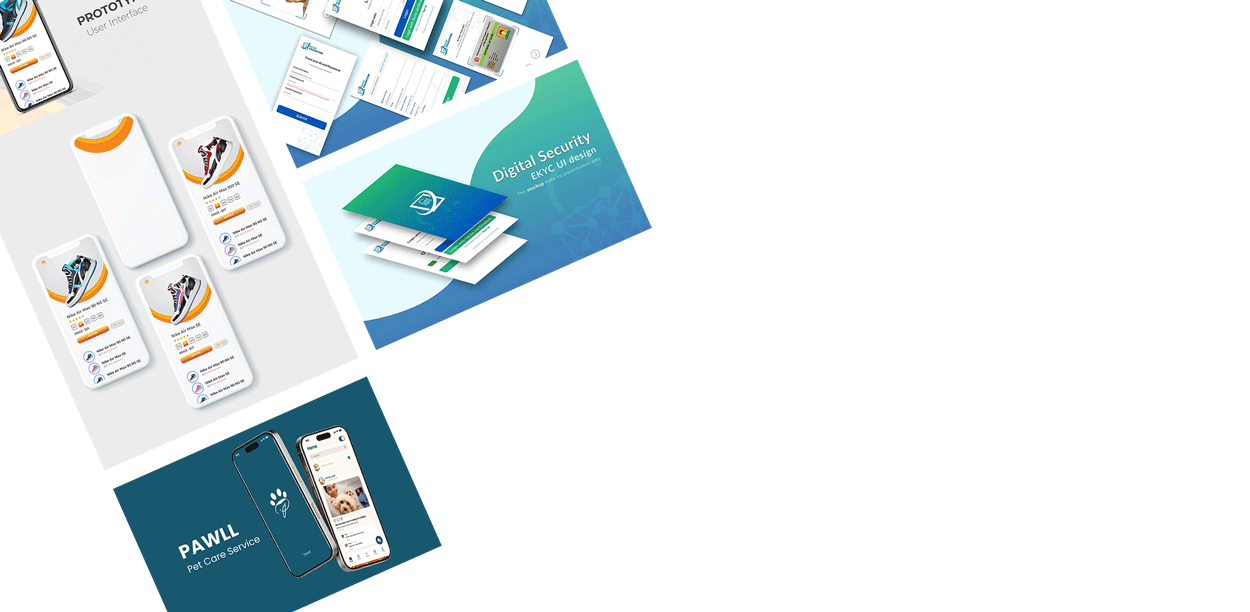
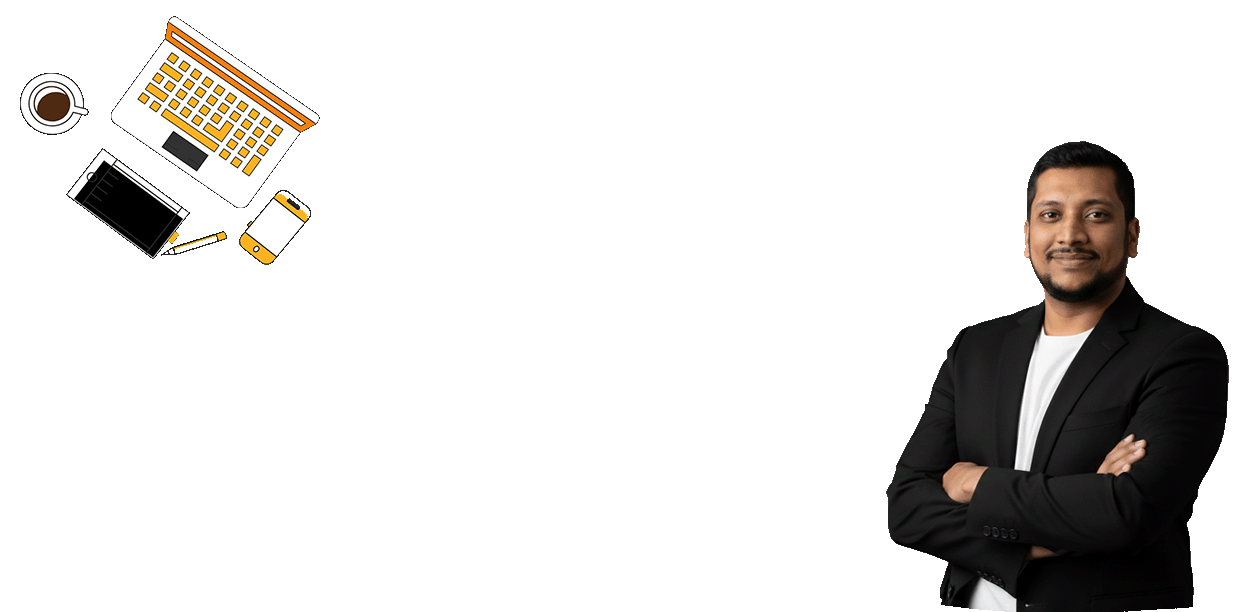
theme Udate

diff --git a/style.css b/style.css
@@ -9,7 +9,7 @@
 body {
   max-width: 1600px;
   margin: auto;
-  background-color: rgb(29, 29, 29);
+  background-color: rgb(230, 229, 228);
   font-family: "Rubik", sans-serif;
   color: #333;
   line-height: 1.6;
@@ -76,11 +76,12 @@ header {
   justify-content: space-between;
   align-items: center;
   padding: 20px 80px;
-  background-color: #fcc922be;
+  background-color: #ececd3be;
   position: sticky;
   top: 0;
   z-index: 1000;
   border-radius: 25px;
+  border-bottom: solid #fc8c0c;
   margin: 20px;
   backdrop-filter: blur(10px);
 }
@@ -128,6 +129,7 @@ nav ul li a:hover {
   transform: translateY(10px);
   transition: opacity 0.3s ease, transform 0.3s ease, visibility 0.3s ease;
   border-radius: 25px;
+  border-bottom: solid #fc8c0c;
 }
 
 .has-dropdown:hover .dropdown-menu {
@@ -177,28 +179,14 @@ body.mobile-nav-active nav {
   overflow: hidden;
 
   /* Background animation */
-  /* background-size: cover; 
-    background-position: center;
-    animation: slider 15s infinite ease-in-out;  */
+    
+    background-image: url("./Assets/works/BG2.png");background-size: cover; 
+    
+    
+    
 }
 
-@keyframes slider {
-  0% {
-    background-image: url("./Assets/works/BG1.png");
-  }
-  25% {
-    background-image: url("./Assets/works/BG2.png");
-  }
-  50% {
-    background-image: url("./Assets/works/BG3.png");
-  }
-  75% {
-    background-image: url("./Assets/works/BG4.png");
-  }
-  100% {
-    background-image: url("./Assets/works/BG1.png");
-  }
-}
+
 
 .hero-content {
   position: relative;
@@ -224,8 +212,8 @@ body.mobile-nav-active nav {
 }
 
 .hero-text-content h1 {
-  font-size: 1em; /* Mobile font size */
-  margin-bottom: 2px; /* Reduced margin */
+  font-size: 1rem; /* Mobile font size */
+  margin-bottom: 1px; /* Reduced margin */
 
   line-height: 1.2;
 }
@@ -235,17 +223,23 @@ body.mobile-nav-active nav {
   min-height: 1.5em;
   font-weight: 400;
   color: #f4730a;
+  
 }
 
-@media (min-width: 400px) {
+@media (min-width: 394px) {
   .hero-section {
-    height: 80vh; /* Adjust height for tablets */
+    height: 58vh; /* Adjust height for tablets */
+    background-size:cover;
+    background-position:right;
   }
+    
   .hero-content {
     padding: 10px 20px;
     max-width: 250px; /* Constrain width for better readability on tablets */
     width: auto; /* Reset width to auto for flex content */
+    
   }
+  
   .profile-photo {
     width: 400px;
     height: auto;
@@ -318,7 +312,7 @@ body.mobile-nav-active nav {
 
 /* My Work Section */
 .my-work-section {
-  background-color: rgb(29, 29, 29);
+  background-color: rgb(212, 212, 211);
   padding: 80px 50px;
   text-align: center;
 }
@@ -331,7 +325,7 @@ body.mobile-nav-active nav {
 }
 
 .category-card {
-  background-color: #303030d5;
+  background-color: #ececd3dc;
   padding: 30px;
   border-radius: 12px;
 
@@ -347,7 +341,7 @@ body.mobile-nav-active nav {
 }
 
 .category-card h3 {
-  color: #f4bf0a;
+  color:  rgb(43, 42, 42);
   font-size: 1.5em;
 }
 
@@ -388,7 +382,7 @@ body.mobile-nav-active nav {
 
 /* Skills Section */
 .skills-section {
-  background-color: rgb(29, 29, 29);
+  background-color: rgb(230, 229, 228);
   padding: 80px 50px;
   text-align: center;
 }
@@ -401,14 +395,15 @@ body.mobile-nav-active nav {
 }
 
 .skill-card {
-  background-color: #f8ee8f5b;
+  background-color: #ececd3dc;
   padding: 25px;
   border-radius: 8px;
   box-shadow: 0 2px 10px rgba(0, 0, 0, 0.05);
   transition: transform 0.3s ease, box-shadow 0.3s ease;
   opacity: 0; /* For scroll reveal */
   transform: translateY(20px);
-  color: rgb(255, 241, 204);
+  color:  rgb(43, 42, 42);
+  text-align:left;
 }
 
 .skill-card.revealed {
@@ -425,6 +420,7 @@ body.mobile-nav-active nav {
 .software-section {
   padding: 80px 50px;
   text-align: center;
+  background-color: rgb(212, 212, 211);
 }
 
 .software-icons {

diff --git a/index.html b/index.html
@@ -22,7 +22,7 @@
 
     <header>
         <div class="logo">
-            <a href="#"><img src="./Assets/Full log.png" alt="Mashiur Rahman Logo"></a>
+            <a href="index.html"><img src="./Assets/Full log.png" alt="Mashiur Rahman Logo"></a>
         </div>
         <nav>
             <ul>
@@ -57,23 +57,18 @@
         <section id="home" class="hero-section">
            
             <div class="hero-content">
+              
                 <div class="hero-profile-container">
-                    <img src="./Assets/pro-pic 2.png" alt="Mashiur Rahman Profile Photo" class="profile-photo">
-                    <div style="color: rgb(255, 241, 204);" class="hero-text-content">
+                      <!-- <img src="./Assets/pro-pic 2.png" alt="Mashiur Rahman Profile Photo" class="profile-photo"> -->
+                    <div style="color: rgb(43, 42, 42);" class="hero-text-content">
                         <h1>Mashiur Rahman</h1>
                         <p class="type-effect"></p> </div>
                 </div>
-                <!-- <div class="hero-background-slider">
-                <img src="./Assets/works/Yellow BG-01-01.jpg" alt="Background Image 1" class="active">
-                <img src="/Assets/works/single1.jpg" alt="Background Image 2">
-                <img src="/Assets/works/single2.jpg" alt="Background Image 3">
-            </div> -->
-            
             </div>
         </section>
 
         <section class="my-work-section">
-            <h2 style="color: rgb(255, 241, 204); font-size: 8vh;">My Work</h2>
+            <h2 style="color:  rgb(43, 42, 42); font-size: 8vh;">My Work</h2>
             <div class="work-categories-grid">
                 <div class="category-card" data-category="ui-ux">
                     <img src="./Assets/works/work 7.jpg" alt=" catagory UI/UX">
@@ -103,7 +98,7 @@
         </section>
 
         <section class="skills-section">
-            <h2 style="color: rgb(255, 241, 204); font-size: 8vh;">My Skills</h2>
+            <h2 style="color:  rgb(43, 42, 42); font-size: 8vh;">My Skills</h2>
             <div class="skills-grid">
                 <div class="skill-card">
                     <h3>UI/UX</h3>
@@ -135,19 +130,19 @@
         </section>
 
         <section class="software-section">
-            <h2 style="color: rgb(255, 241, 204); font-size: 8vh;">Software I Use</h2>
+            <h2 style="color:  rgb(43, 42, 42); font-size: 8vh;">Software I Use</h2>
             <div class="software-icons">
                 <img src="./Assets/figma.png" alt="Figma">
                 <img src="./Assets/Adobe.png" alt="Adobe XD">
                 <img src="./Assets/blender.png" alt="Photoshop">
                 <img src="./Assets/sketchup.png" alt="Illustrator">
-                <img src="./Assets/discord.png" alt="After Effects">
+                <!-- <img src="./Assets/discord.png" alt="After Effects"> -->
                 
                 </div>
         </section>
 
         <section class="proudly-work-section">
-            <h2 style="color: rgb(255, 241, 204); font-size: 8vh;">Proudly Work With</h2>
+            <h2 style="color:  rgb(43, 42, 42); font-size: 8vh;">Proudly Work With</h2>
             <div class="company-logos-slider">
                 <div class="logos-track">
                     <img src="./Assets/brands/Brand 1.png" alt="Company A">
@@ -172,6 +167,7 @@
         <div class="social-media">
             <h4>Follow Me</h4>
               <a href="https://www.linkedin.com/in/mashiur-rahaman/" target="_blank"><i class="fab fa-linkedin-in"></i> </a>
+        </div>
     </footer>
 
     <script src="main.js"></script>

diff --git a/Motion.html b/Motion.html
@@ -85,7 +85,7 @@
                     <iframe width="560" height="315" src="https://www.youtube.com/embed/s-1_yMQfKGE?si=B6bZTclMPlYEOsOe" title="YouTube video player" frameborder="0" allow="accelerometer; autoplay; clipboard-write; encrypted-media; gyroscope; picture-in-picture; web-share" referrerpolicy="strict-origin-when-cross-origin" allowfullscreen></iframe>
                 </div>
                 <div class="image-container">
-                    <iframe width="560" height="315" src="https://www.youtube.com/embed/HQquu6ipo1E?si=S2VG67xRngxzQ6Yd" title="YouTube video player" frameborder="0" allow="accelerometer; autoplay; clipboard-write; encrypted-media; gyroscope; picture-in-picture; web-share" referrerpolicy="strict-origin-when-cross-origin" allowfullscreen></iframe>
+                    <iframe width="560" height="315" src="https://www.youtube.com/embed/EiXhLa6hLAo?si=pqVuFPV6OiUmhXC_" title="YouTube video player" frameborder="0" allow="accelerometer; autoplay; clipboard-write; encrypted-media; gyroscope; picture-in-picture; web-share" referrerpolicy="strict-origin-when-cross-origin" allowfullscreen></iframe>
                 </div>
                
             </div>

diff --git a/Projects.css b/Projects.css
@@ -7,9 +7,9 @@
 body {
     max-width: 1600px;
     margin: auto;
-    background-color: rgb(29, 29, 29);
+    background-color:rgb(230, 229, 228);
     font-family: "Rubik", sans-serif;
-    color:  rgb(255, 241, 204);
+    color: rgb(43, 42, 42);
     line-height: 1.6;
     overflow-x: hidden; 
     
@@ -17,11 +17,11 @@ body {
 
 .project-main {
     padding: 60px 80px;
-     background-color: rgb(19, 19, 19);
+     background-color: rgb(212, 212, 211);
 }
 
 .project-case-study {
-    background-color:rgba(124, 91, 1, 0.123);
+    background-color:rgb(230, 229, 228);
     padding: 40px;
     border-radius: 8px;
     box-shadow: 0 5px 15px rgba(0,0,0,0.08);
@@ -120,10 +120,12 @@ body {
 
 /* Image Containers */
 .image-container {
+    display: flex;
     flex: 1; 
-    min-width: 100px; 
+    min-width: 100px;
     text-align: center; 
     margin: 0; 
+    gap: 5px;
 }
 
 .image-container img {

diff --git a/creative.html b/creative.html
@@ -76,9 +76,9 @@ Each piece blends color, form, and emotion to spark curiosity and creativity. Wh
                     <img src="./Assets/works/Creatives/Pring Media-01.jpg" alt="Problem illustration or user quote">
                     <div class="next-project-nav">
             
-        </div>
                 </div>
             </div>
+            
             <div class="text-image-layout">
                 
                 <div class="image-container">

diff --git a/about.css b/about.css
@@ -8,7 +8,7 @@
 body {
     max-width: 1600px;
     margin: auto;
-    background-color: rgb(250, 244, 218);
+    background-color: rgb(230, 229, 228);
     font-family: "Rubik", sans-serif;
     color: #333;
     line-height: 1.6;
